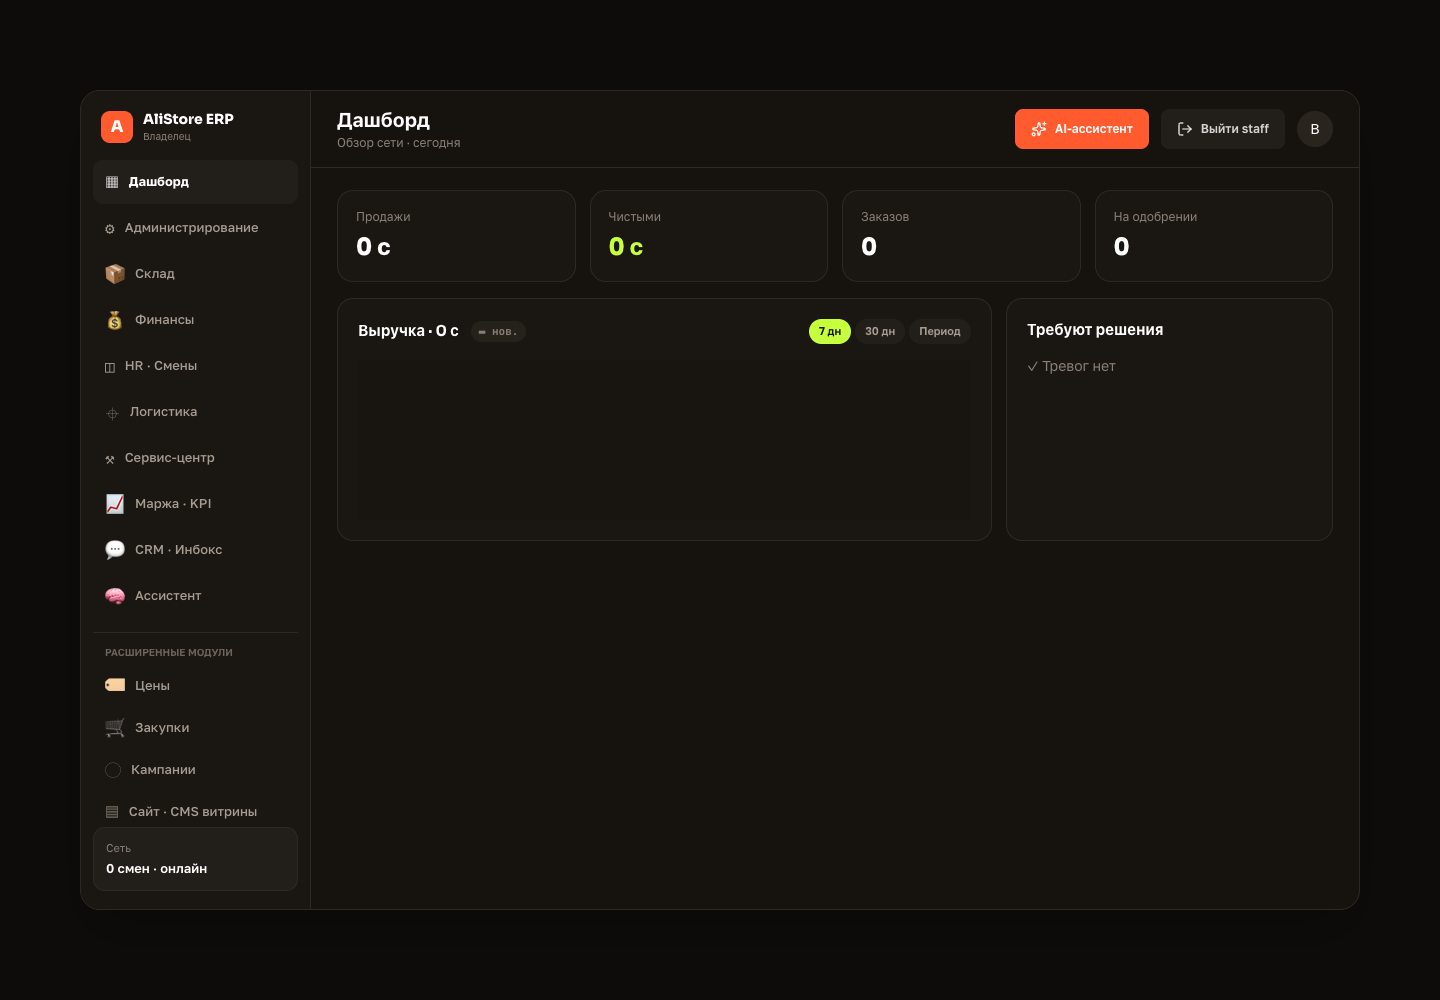
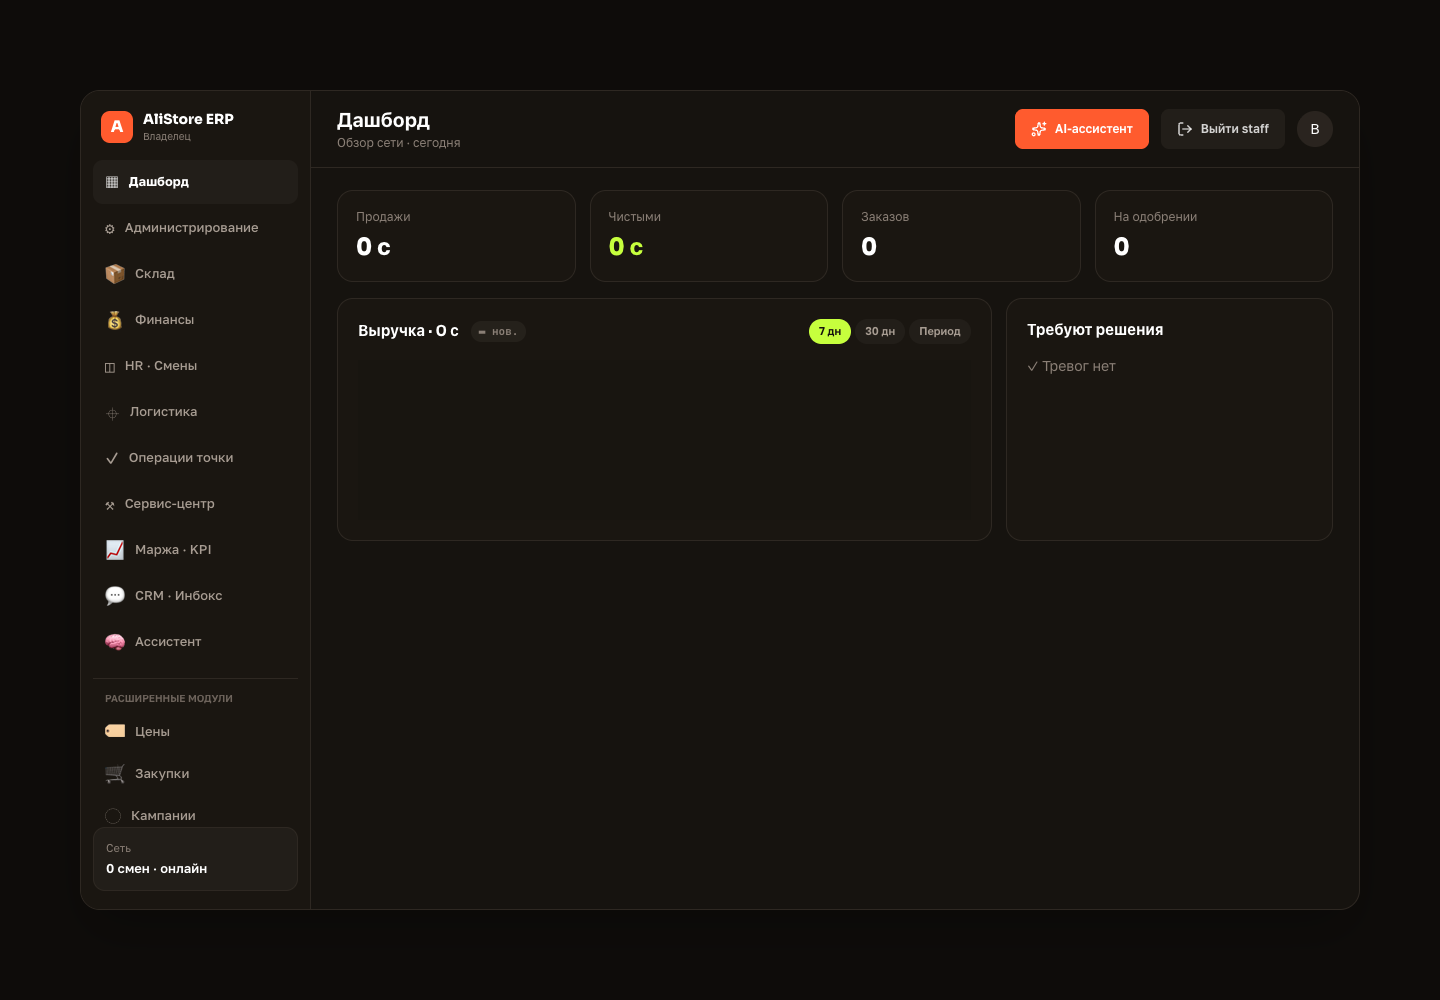
test(erp): refresh operations visual evidence

diff --git a/PROGRESS.md b/PROGRESS.md
@@ -1,5 +1,14 @@
 # PROGRESS
 
+# 2026-07-17 — STORE-OPS-001 verification follow-up
+
+- Iteration ID: `STORE-OPS-001` verification follow-up.
+- Result: the complete Playwright suite passes `58/58`, including the Store Operations ERP journey and the refreshed ERP desktop visual golden for the intentional sidebar addition.
+- Checks run: Store Operations API `2/2`; targeted Staff session suite `12/12`; complete Playwright `58/58`; Store Operations ERP visual test `1/1`; `git diff --check`.
+- Full-gate note: the long `mvp:verify` Jest process completed `147/148` suites and `665/670` tests; five existing `staff-session-ops.e2e-spec.ts` tests exceeded the 30-second timeout in that resource-heavy aggregate run, while the same suite passes independently. The overall MVP gate therefore remains `RED` pending a repeatable long-run Jest/resource fix.
+- Commit: `b03450a` (`feat(erp): add store operations controls`); visual verification follow-up is pending in this commit.
+- Next step: isolate the aggregate Jest timeout/resource behavior or proceed with the next locally unblocked ERP/native slice; external production gates remain open.
+
 # 2026-07-17 — STORE-OPS-001
 
 - Iteration ID: `STORE-OPS-001`.